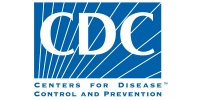
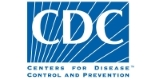
fixed footer images

diff --git a/index.html b/index.html
@@ -64,7 +64,7 @@
               </div>
               <br>
               <footer>
-                <a href="https://covid.cdc.gov/covid-data-tracker/#datatracker-home"><img src="images\cdc.jpg"></a>
+                <figure><a href="https://covid.cdc.gov/covid-data-tracker/#datatracker-home"><img src="images\cdc.jpg"></a></figure>
               </footer>
             </div>
           </div>
@@ -142,7 +142,7 @@
           </div>
         </div>
         <figure>
-          <img class="is-centered " src="images\covid.jpg">
+          <img class="is-centered m-4 " src="images\covid.jpg">
         </figure>
 
       </div>
@@ -203,9 +203,9 @@
               </div>
               <br>
               <footer>
-                <a
+                <figure><a
                   href="https://www.who.int/emergencies/diseases/novel-coronavirus-2019?gclid=Cj0KCQjw-NaJBhDsARIsAAja6dNRePmsDlMU3zdtrDzOdTnHfcmCvo-avDtdOmBZiumlkSaM__iXVS4aAsHvEALw_wcB"><img
-                    src="images\logo-who.jpg"></a>
+                    src="images\logo-who.jpg"></a></figure>
               </footer>
             </div>
           </div>
